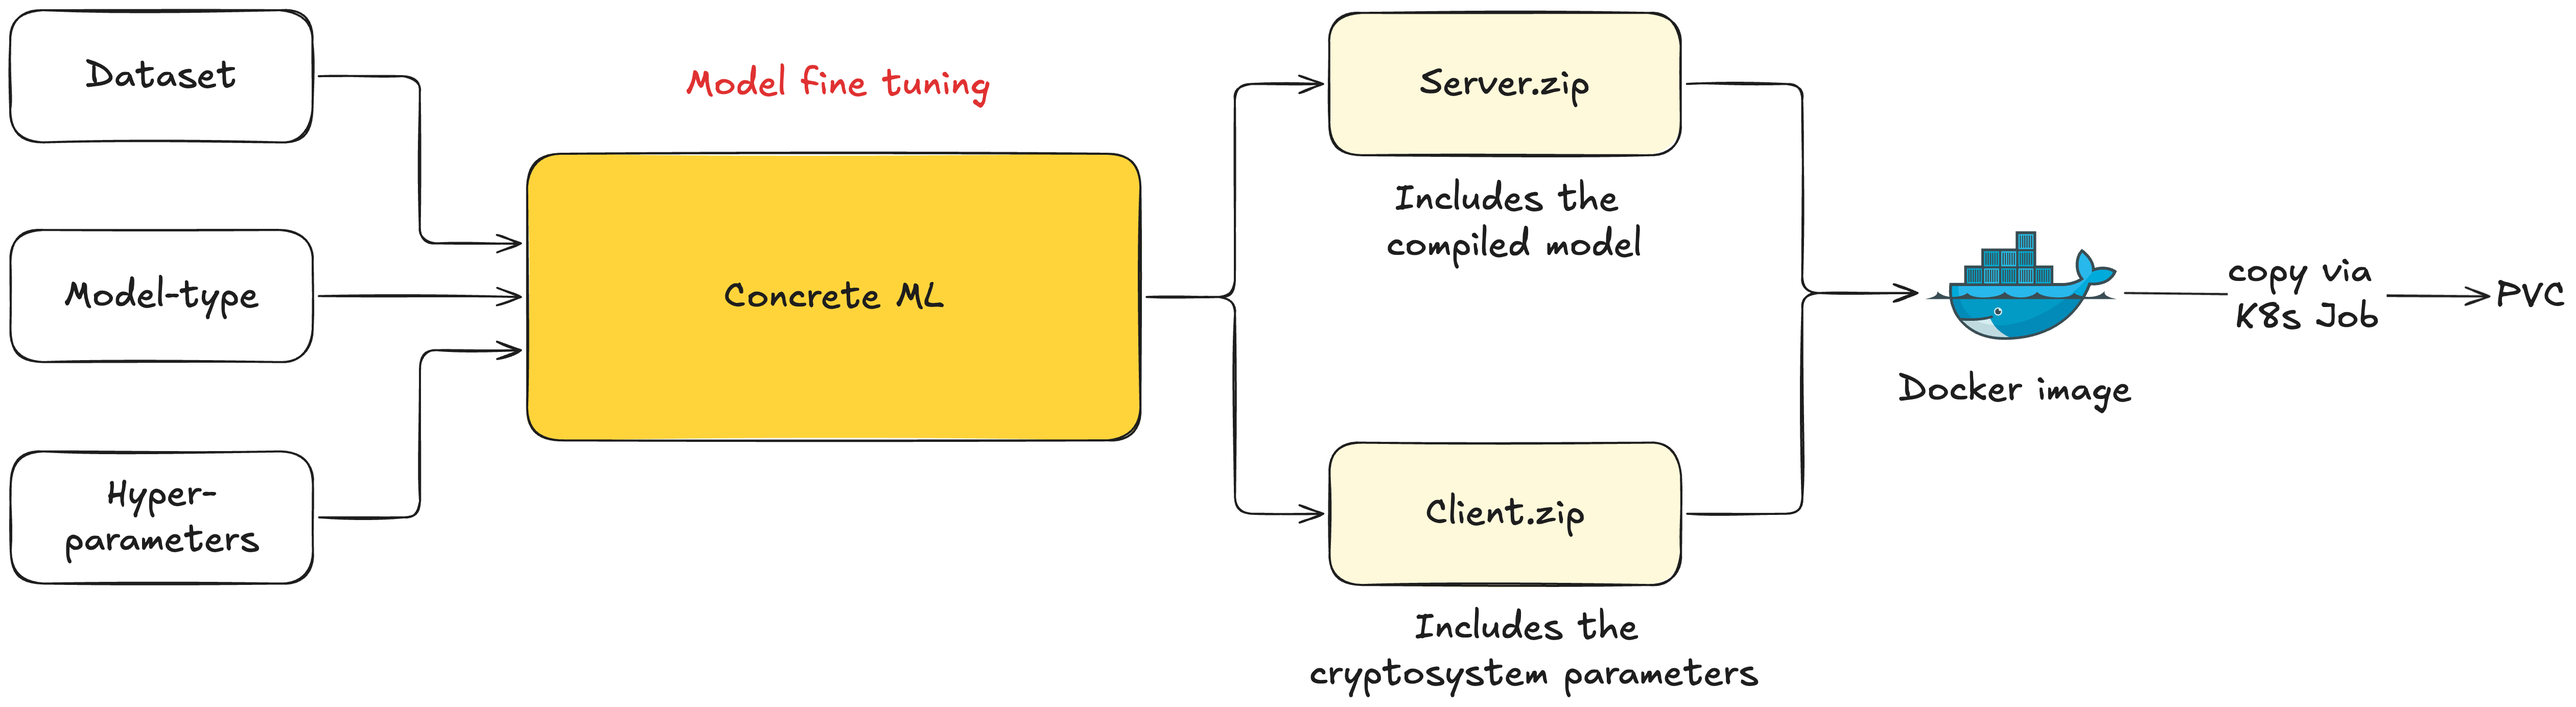
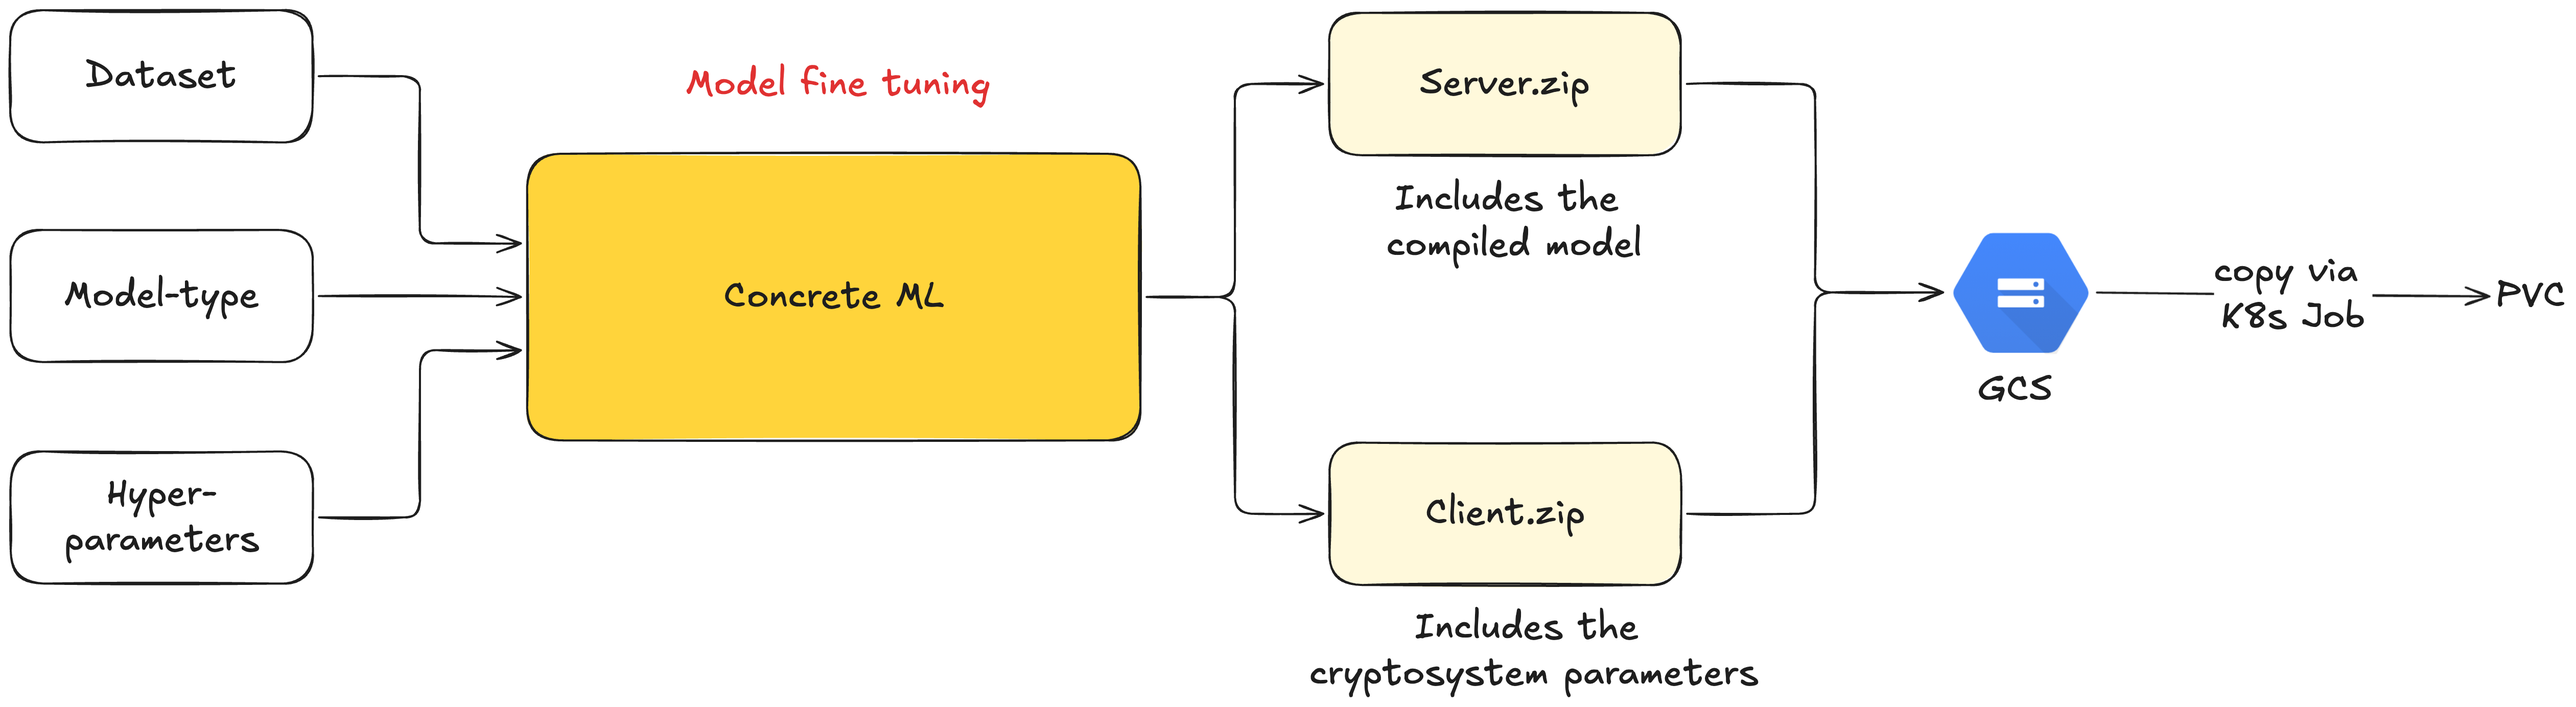
feat: Externalize FHE model storage to GCS, updating documentation, tests, and architecture diagrams.

Changed region(s): [[0.685, 0.3107, 0.9342, 0.4971], [0.7162, 0.5282, 0.8407, 0.5903], [0.685, 0.5592, 0.7162, 0.6525]]

diff --git a/backend/tests/test_main.py b/backend/tests/test_main.py
@@ -15,8 +15,22 @@ def test_health_check():
     assert response.status_code == 200
     assert response.json() == {"status": "ok"}
 
-def test_predict_plaintext_success():
-    """Kiểm tra API predict plaintext hoạt động (nếu đã có model)"""
+from unittest.mock import patch
+
+class MockModel:
+    def predict(self, df):
+        import numpy as np
+        return np.array([1])
+
+class MockScaler:
+    def transform(self, df):
+        return df
+
+@patch("backend.app.server.main.load_model_assets")
+def test_predict_plaintext_success(mock_load_assets):
+    """Kiểm tra API predict plaintext hoạt động, sử dụng Mocking vì model không lưu trên Git/Docker nữa."""
+    mock_load_assets.return_value = (MockModel(), MockScaler())
+
     sample_payload = {
         "Age": 60,
         "Gender": 1,
@@ -32,10 +46,7 @@ def test_predict_plaintext_success():
     data = response.json()
     
     assert "status" in data
-    if data["status"] == "success":
-        assert "prediction" in data
-        assert isinstance(data["prediction"], int)
-    else:
-        # Nếu model scale bị lỗi version numpy/sklearn hoặc không tải được
-        assert data["status"] == "error"
-        assert "message" in data
+    assert data["status"] == "success"
+    assert "prediction" in data
+    assert isinstance(data["prediction"], int)
+    assert data["prediction"] == 1

diff --git a/README.md b/README.md
@@ -1,5 +1,4 @@
 # FHE-User-Behavior: Privacy-Preserving User Purchase Prediction with Fully Homomorphic Encryption
-
 [![Python](https://img.shields.io/badge/Python-3.10-blue?logo=python)](https://www.python.org/)
 [![Concrete ML](https://img.shields.io/badge/Concrete--ML-1.4.0-orange)](https://docs.zama.ai/concrete-ml)
 [![FastAPI](https://img.shields.io/badge/FastAPI-0.110-green?logo=fastapi)](https://fastapi.tiangolo.com/)
@@ -37,6 +36,7 @@ The system is built on [Concrete ML](https://docs.zama.ai/concrete-ml) by Zama a
 ## Tech Stack
 
 ### Machine Learning
+
 | Component | Technology |
 |---|---|
 | FHE framework | [Concrete ML 1.4.0](https://docs.zama.ai/concrete-ml) |
@@ -44,6 +44,7 @@ The system is built on [Concrete ML](https://docs.zama.ai/concrete-ml) by Zama a
 | Quantization | 7-bit |
 
 ### Application
+
 | Component | Technology |
 |---|---|
 | Backend API | FastAPI |
@@ -51,12 +52,14 @@ The system is built on [Concrete ML](https://docs.zama.ai/concrete-ml) by Zama a
 | Tracing | OpenTelemetry → Jaeger |
 
 ### MLOps / Infrastructure
+
 | Component | Technology |
 |---|---|
-| Cloud | Google Cloud Platform (GKE, GCE, GAR) |
+| Cloud | Google Cloud Platform (GKE, GCE, GAR, GCS) |
 | IaC | Terraform (cluster), Ansible (Jenkins VM), Helm (components) |
 | CI | Jenkins (Pytest → Docker build → push to GAR) |
 | CD | ArgoCD (GitOps, webhook-triggered) |
+| Model storage | Google Cloud Storage (GCS) |
 | Monitoring | Prometheus + Grafana + Loki + Alertmanager |
 | Ingress | NGINX Ingress Controller |
 | Persistent storage | Kubernetes PVC |
@@ -80,13 +83,14 @@ The flow:
 
 ### 2. Model Training & Packaging
 
-How the FHE model is trained, compiled, and packaged for deployment.
+How the FHE model is trained, compiled, and stored for deployment.
 
 ![Model Fine-tuning](images/model-finetuning.png)
 
 - Dataset + Model type + Hyperparameters → **Concrete ML** compiles FHE circuit
 - Output: `server.zip` (compiled FHE model) + `client.zip` (cryptosystem parameters)
-- Both files are baked into the Docker image and copied to a **PVC** via a Kubernetes Job (`upload-model-job`) at deploy time
+- Both files are uploaded to **GCS** and pulled to a **PVC** via a Kubernetes Job at deploy time
+- Model lifecycle is fully decoupled from the Docker image — retraining does not require rebuilding or redeploying the application
 
 ---
 
@@ -117,6 +121,7 @@ concrete-ml >= 1.4.0
 docker
 kubectl
 helm
+gcloud CLI (for GCS access)
 ```
 
 ### Train and compile the FHE model
@@ -128,6 +133,7 @@ python development.py
 #          deployment/preprocessor.pkl
 ```
 
+
 ### Run locally
 
 ```bash
@@ -136,8 +142,11 @@ uvicorn backend.app.main:app --host 0.0.0.0 --port 8000
 
 # Start Gradio demo (separate terminal)
 python app.py
+
 # Open http://localhost:7860
 ```
+
+---
 
 ## Research Paper
 
